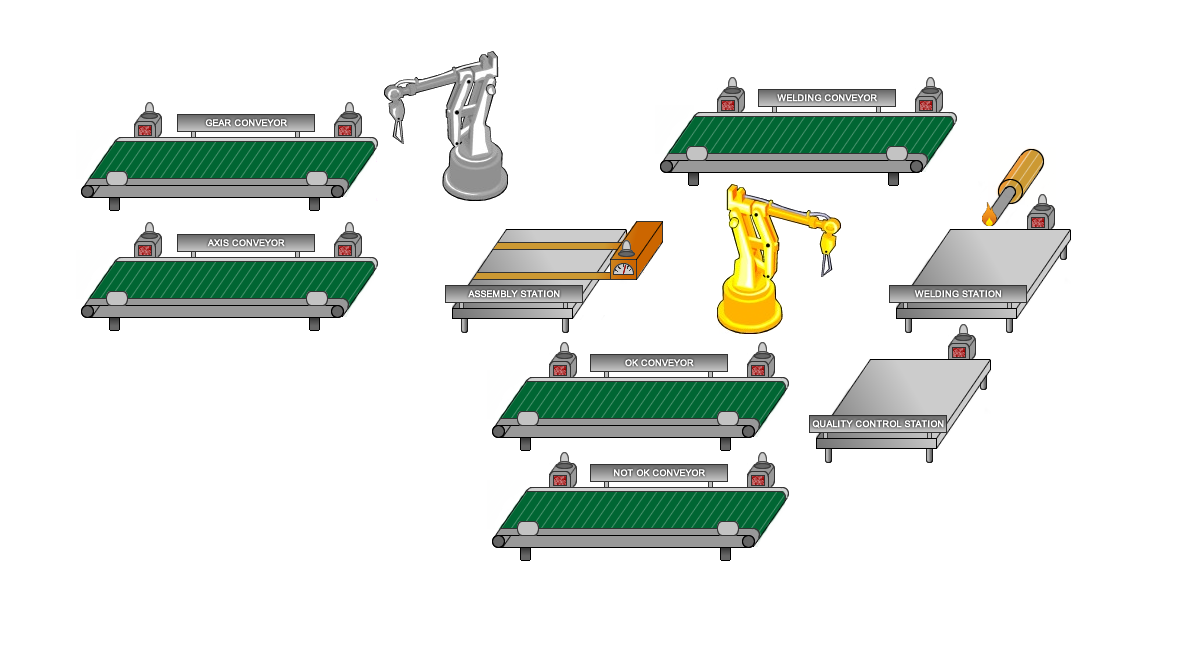
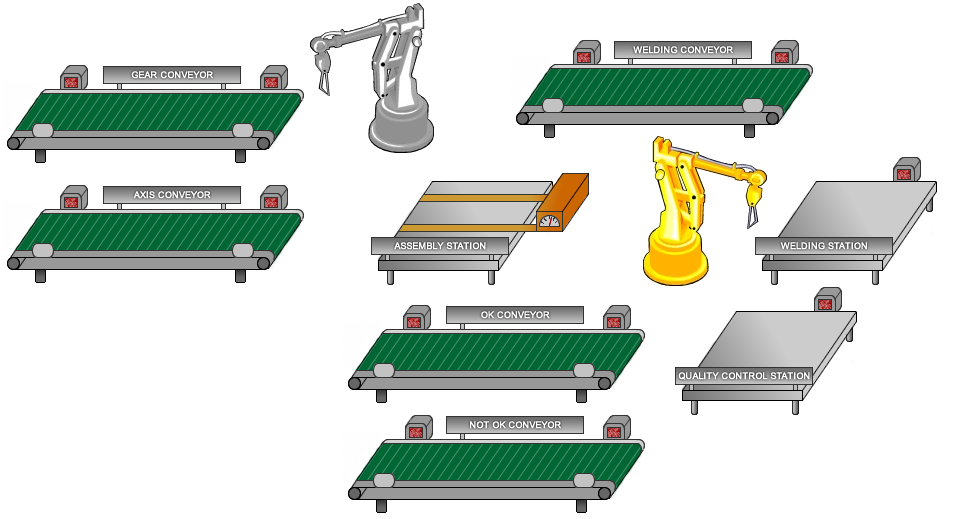
Primeros cambios en la interfaz

diff --git a/flexible-manufacturing-cell/src/Auxiliar/Constants.java b/flexible-manufacturing-cell/src/Auxiliar/Constants.java
@@ -153,6 +153,45 @@ public class Constants {
     public static final String CONFIGURATION_TOOL_TIP = "Parameters configuration";
     public static final String REPORT_TOOL_TIP = "Report generation";
     
+    /* CONSTANTS used in GUI for ELEMENT POSITIONING */
+    /* SENSOR LIGHT POSITIONS */
+    public static final Point GEAR_CONVEYOR_SENSOR_LIGHT_LEFT_POSITION = new Point(67, 54);
+    public static final Point GEAR_CONVEYOR_SENSOR_LIGHT_RIGHT_POSITION = new Point(267, 54);
+    public static final Point AXIS_CONVEYOR_SENSOR_LIGHT_LEFT_POSITION = new Point(67, 174);
+    public static final Point AXIS_CONVEYOR_SENSOR_LIGHT_RIGHT_POSITION = new Point(267, 174);        
+    public static final Point WELDING_CONVEYOR_SENSOR_LIGHT_LEFT_POSITION = new Point(580, 29);
+    public static final Point WELDING_CONVEYOR_SENSOR_LIGHT_RIGHT_POSITION = new Point(778, 29);    
+    public static final Point OK_CONVEYOR_SENSOR_LEFT_LIGHT_POSITION = new Point(410, 294);
+    public static final Point OK_CONVEYOR_SENSOR_RIGHT_LIGHT_POSITION = new Point(610, 294);    
+    public static final Point NOTOK_CONVEYOR_SENSOR_LEFT_LIGHT_POSITION = new Point(410, 404);
+    public static final Point NOTOK_CONVEYOR_SENSOR_LIGHT_RIGHT_POSITION = new Point(610, 404);
+    public static final Point ASSEMBLY_STATION_SENSOR_LIGHT_POSITION = new Point(544, 192);
+    public static final Point WELDING_STATION_SENSOR_LIGHT_POSITION = new Point(900, 146);
+    public static final Point QUALITY_CONTROL_STATION_LIGHT_SENSOR_POSITION = new Point(821, 276);
+    /* WELDING STAMPER */
+    public static final Point WELDING_STAMPER_POSITION_ENABLED = new Point(391, 130);
+    public static final Point WELDING_STAMPER_POSITION_DISABLED = new Point(391, 80);
+    /* TORCH */
+    public static final Point TORCH_POSITION_ENABLED = new Point(833, 114);
+    public static final Point TORCH_POSITION_DISABLED = new Point(833,74);    
+    /* STARTING POSITIONS FOR CONVEYOR BELTS */
+    public static final Point GEAR_CONVEYOR_START_POSITION = new Point(26, 87);
+    public static final Point AXIS_CONVEYOR_START_POSITION = new Point(13, 200);
+    public static final Point WELDING_CONVEYOR_START_POSITION = new Point(522, 50);
+    public static final Point OK_CONVEYOR_START_POSITION = new Point(599, 315);
+    public static final Point NOTOK_CONVEYOR_START_POSITION = new Point(594, 428);
+    /* SENSOR ACTIVATION POSITION IN BELTS */
+    public static final Point GEAR_CONVEYOR_SENSOR_LEFT_POSITION = new Point();
+    public static final Point GEAR_CONVEYOR_SENSOR_RIGHT_POSITION = new Point();
+    public static final Point AXIS_CONVEYOR_SENSOR_LEFT_POSITION = new Point();
+    public static final Point AXIS_CONVEYOR_SENSOR_RIGHT_POSITION = new Point();
+    public static final Point WELDING_CONVEYOR_SENSOR_LEFT_POSITION = new Point();
+    public static final Point WELDING_CONVEYOR_SENSOR_RIGHT_POSITION = new Point();
+    public static final Point OK_CONVEYOR_SENSOR_LEFT_POSITION = new Point();
+    public static final Point OK_CONVEYOR_SENSOR_RIGHT_POSITION = new Point();
+    public static final Point NOTOK_CONVEYOR_SENSOR_LEFT_POSITION = new Point();
+    public static final Point NOTOK_CONVEYOR_SENSOR_RIGHT_POSITION = new Point();
+    
     //conections Panel
     public static final String TITLE_CONNECTIONS = "Connections Panel";
     public static final String ASSEMBLY_AUTOMATON_LABEL = "Assembly Automaton";

diff --git a/flexible-manufacturing-cell/src/Scada/Gui/ImageLoader.java b/flexible-manufacturing-cell/src/Scada/Gui/ImageLoader.java
@@ -17,7 +17,7 @@ public class ImageLoader {
 
     /* CANVAS IMAGES */
     public Image background = Toolkit.getDefaultToolkit().getImage(
-            ImageLoader.class.getResource(IMAGES_FOLDER + "/background3.png"));
+            ImageLoader.class.getResource(IMAGES_FOLDER + "/background.png"));
     /* APPLICATION IMAGES */
     public Image reportButton = Toolkit.getDefaultToolkit().getImage(
             ImageLoader.class.getResource(IMAGES_FOLDER + "/report.png"));
